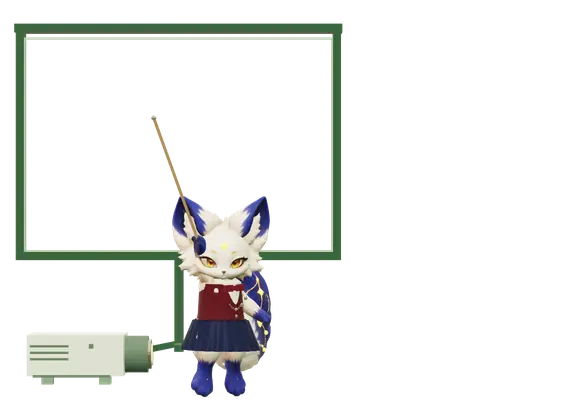
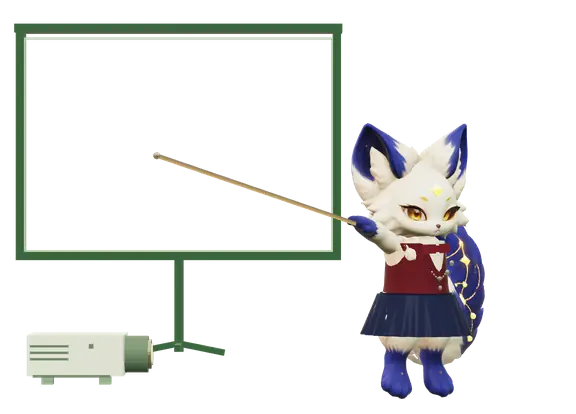
fix(metodo): Sophia no plano e na proporção da versão 2D; ponta dos pés, desequilíbrio e queda mais naturais
Sem caminhar: fica à direita da tela (~65% da altura), gira para a tela ao se esticar,
calcanhares fora do chão, braços em moinho, queda, senta, levanta e sorri desengonçada.
Loop 135 quadros, 20 s exatos, ~585 KB; recorte e testes atualizados.

Claude-Session: https://claude.ai/code/session_01QGhaqhyonAJ4q3JqQit1gc

Changed region(s): [[0.25, 0.2899, 0.8438, 0.9855]]

diff --git a/src/styles/method-scene.css b/src/styles/method-scene.css
@@ -164,13 +164,13 @@ html:not([data-legacy-mode='true']):not([data-serious-mode='true']) .method-sect
   user-select: none;
   -webkit-user-drag: none;
 }
-/* Sophia: recorte 384×304 (x 40, y 110) do quadro 576×414, em % do figure — a mesma geometria do cenário. */
+/* Sophia: recorte 408×348 (x 143, y 65) do quadro 576×414, em % do figure — a mesma geometria do cenário. */
 .method-presenter__sophia {
   position: absolute;
-  left: 6.944%;
-  top: 26.570%;
-  width: 66.667%;
-  height: 73.43%;
+  left: 24.826%;
+  top: 15.7%;
+  width: 70.833%;
+  height: 84.058%;
   object-fit: fill;
   pointer-events: none;
   user-select: none;

diff --git a/docs/method-scene.md b/docs/method-scene.md
@@ -7,12 +7,12 @@ O fluxograma segue concepção, execução, avaliação e documentação (que vo
 ## Animação (20 s, sincronizada com o fluxograma)
 
 - O WebP da Sophia dura exatamente 20 s (135 quadros com duração variável: mais quadros na queda e nas trocas, menos nas pausas) e acompanha o destaque do momento: a cada 5 s ela aponta a etapa em destaque; na troca, o ponteiro (telescópico) já vai para a próxima.
-- A Sophia tem 60% da escala anterior e caminha até ficar ao lado da etapa em destaque. Nas etapas de cima (Concepção e Execução) sobe na ponta das patas (calcanhares fora do chão), estica braço e ponteiro, oscila cada vez mais, perde o equilíbrio (~1,5 s e ~6,5 s), cai, fica zonza, senta, levanta passando do ponto, faz uma cara desengonçada (olhos semicerrados, cabeça torta, cauda e orelhas) e volta a apontar.
+- A Sophia fica parada no mesmo plano da versão 2D (à direita da tela, ~65% da altura do quadro), sem sair do lugar. Nas etapas da esquerda (Concepção e Documentação) ela gira para a tela, sobe na ponta dos pés (calcanhares fora do chão), estica o braço e o ponteiro telescópico, oscila cada vez mais, perde o equilíbrio (~1,9 s e ~16,9 s), cai com os braços em moinho, fica zonza, senta, levanta passando do ponto, faz uma cara desengonçada (olhos semicerrados, cabeça torta, cauda e orelhas) e volta a apontar.
 - Respiração, balanço da cauda, piscadas e tremor das orelhas continuam.
 - Ao entrar em movimento, o script decodifica as duas camadas e reinicia as animações CSS do fluxograma junto com o loop. Fora da tela, com a página oculta ou com movimento reduzido, entra o poster estático (`method-presenter-r1-still.webp`) e o loop não é baixado. Em telas até 820px, a cena fica abaixo da introdução.
 
 ## Assets e privacidade
 
-`method-presenter-r1-loop.webp` (Sophia, 346 × 274, ~550 KB), `method-presenter-r1-scene.webp` (cenário, ~3 KB) e `method-presenter-r1-still.webp` (poster, ~16 KB) em `public/images/sophia/`. O GLB da Sophia, os arquivos Blender e as texturas de origem são privados e não entram no repositório; os quadros foram renderizados fora do navegador.
+`method-presenter-r1-loop.webp` (Sophia, 286 × 244, ~585 KB), `method-presenter-r1-scene.webp` (cenário, ~3 KB) e `method-presenter-r1-still.webp` (poster, ~16 KB) em `public/images/sophia/`. O GLB da Sophia, os arquivos Blender e as texturas de origem são privados e não entram no repositório; os quadros foram renderizados fora do navegador.
 
 Componente: `src/components/MethodPresenter.astro`. Estilo: `src/styles/method-scene.css`. Teste: `tests/method-presenter-r1.test.mjs`.
